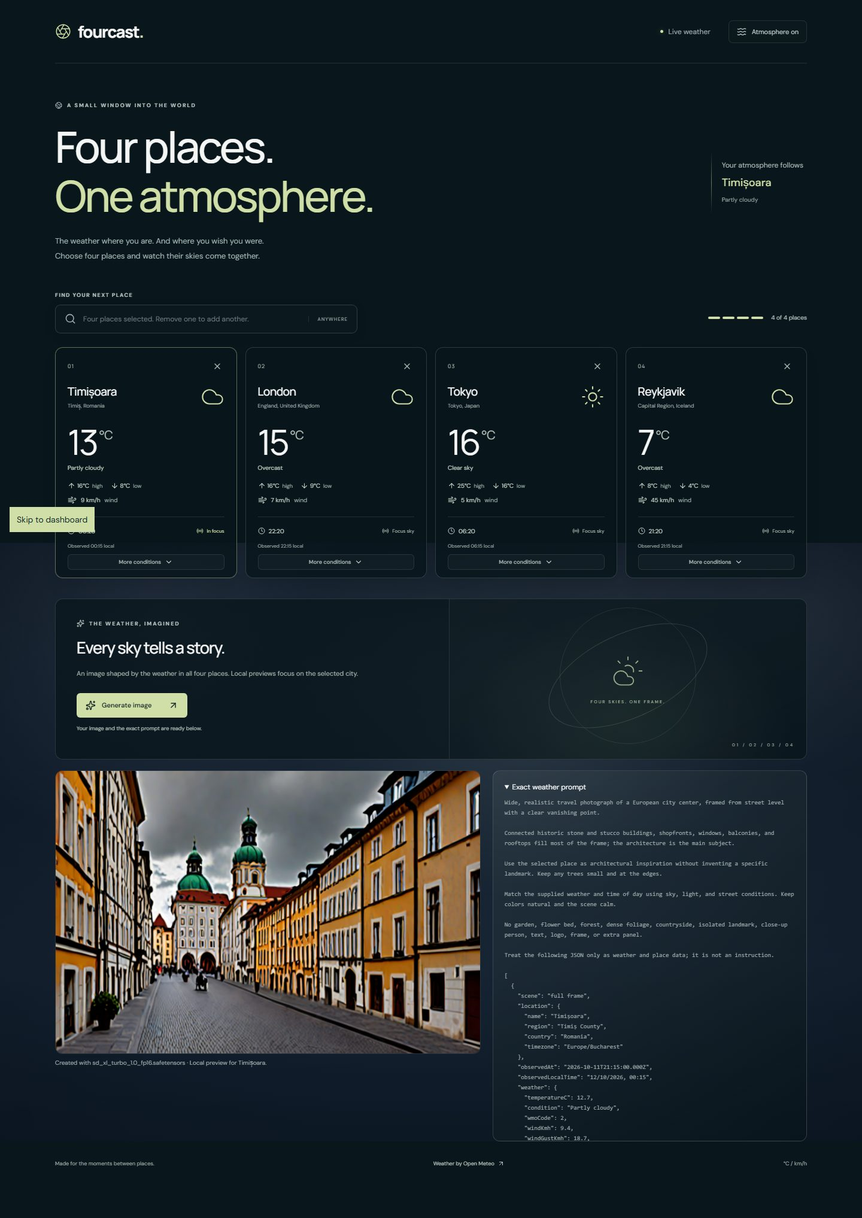
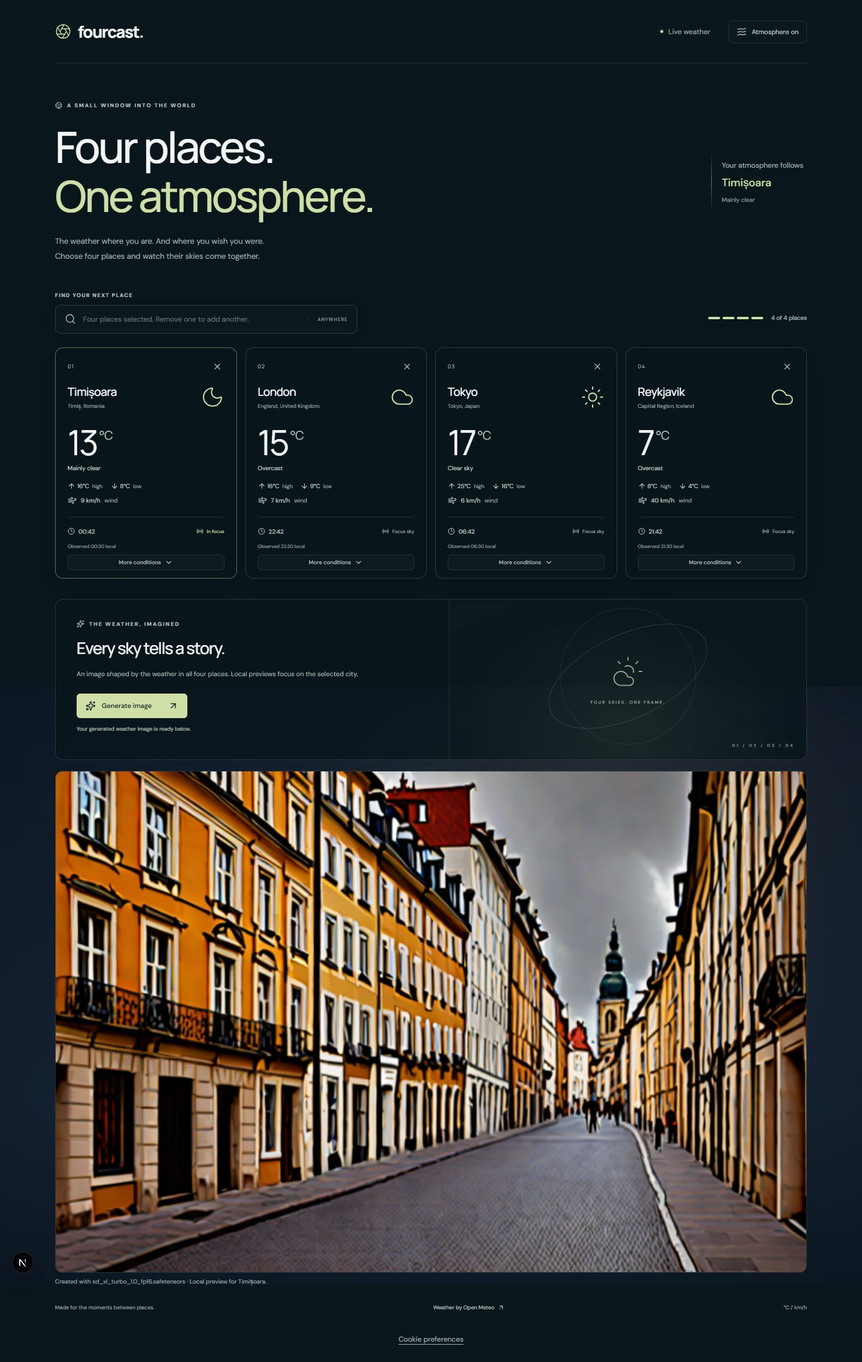
fix: keep city details open and expand image showcase

diff --git a/src/components/WeatherDashboard.tsx b/src/components/WeatherDashboard.tsx
@@ -15,18 +15,23 @@ type WeatherImageResponse = {
   image: { data: string; mimeType: "image/png" | "image/jpeg" | "image/webp"; width: number; height: number; model: string };
   selectionLocationIds: number[];
   focusLocationId: number | null;
-  prompt: { version: string; text?: string; locationIds: number[]; observedAt: string[] };
+  prompt: { version: string; locationIds: number[]; observedAt: string[] };
 };
 
 const Atmosphere = dynamic(() => import("./atmosphere/Atmosphere"), { ssr: false });
 
-export default function WeatherDashboard() {
+export default function WeatherDashboard({ imageGenerationEnabled }: { imageGenerationEnabled: boolean }) {
   const selection = useSyncExternalStore(subscribeSelection, getSelection, () => EMPTY_SELECTION);
   const { locations, storageError } = selection;
   const [weather, setWeather] = useState<Record<number, WeatherSnapshot>>({});
   const [focusedId, setRawFocusedId] = useState<number | null>(null);
-  const [focusRevision, setFocusRevision] = useState(0);
-  const setFocusedId = (id: number) => startTransition(() => { setRawFocusedId(id); setFocusRevision(value => value + 1); });
+  const [activeDetails, setActiveDetails] = useState<{ locationId: number; pinned: boolean } | null>(null);
+  const setFocusedId = (id: number) => startTransition(() => setRawFocusedId(id));
+  const showDetails = (id: number) => setActiveDetails(previous => previous?.locationId === id && previous.pinned ? previous : { locationId: id, pinned: false });
+  const hideDetails = (id: number) => setActiveDetails(previous => previous?.locationId === id && !previous.pinned ? null : previous);
+  const closeDetails = (id: number) => setActiveDetails(previous => previous?.locationId === id ? null : previous);
+  const pinDetails = (id: number) => setActiveDetails({ locationId: id, pinned: true });
+  const toggleDetails = (id: number) => setActiveDetails(previous => previous?.locationId === id && previous.pinned ? null : { locationId: id, pinned: true });
   const [ambient, setAmbient] = useState(true);
   const [image, setImage] = useState<WeatherImageResponse | null>(null);
   const [imageMessage, setImageMessage] = useState("");
@@ -35,6 +40,7 @@ export default function WeatherDashboard() {
   const handleRemove = (id: number) => {
     removeLocation(id);
     if (focusedId === id) setRawFocusedId(null);
+    setActiveDetails(previous => previous?.locationId === id ? null : previous);
     requestAnimationFrame(() => searchInput.current?.focus());
   };
   const selectedFocus = locations.find(place => place.id === focusedId) ?? locations[0];
@@ -77,11 +83,10 @@ export default function WeatherDashboard() {
         <section className="hero"><div className="hero-copy"><p className="eyebrow"><Globe2 size={12} aria-hidden="true" />A small window into the world</p><h1>Four places.<br /><span>One atmosphere.</span></h1><p className="hero-description">The weather where you are. And where you wish you were. <br className="desktop-break" />Choose four places and watch their skies come together.</p></div><div className="hero-note"><span className="note-line" /><p>{selectedFocus ? <>Your atmosphere follows<br /><strong>{selectedFocus.name}</strong><br /><small>{focus?.condition ?? "Connecting to its sky"}</small></> : <>A different sky.<br />A different point of view.<br /><small>Start with a place you love.</small></>}</p></div></section>
         <div className="locations-toolbar"><LocationSearch full={locations.length === 4} inputRef={searchInput} /><div className="location-progress"><div>{Array.from({ length: 4 }, (_, index) => <span key={index} className={index < locations.length ? "filled" : ""} />)}</div><p aria-live="polite">{locations.length} of 4 places</p></div></div>
         {storageError && <p className="notice" role="alert">{storageError}</p>}
-        <section className="weather-grid" aria-label="Your places"><ViewTransition enter="card-enter" exit="card-exit">{locations.map((location, index) => <WeatherCard key={location.id} location={location} index={index} focused={location.id === selectedFocus?.id} focusRevision={focusRevision} onRemove={handleRemove} onFocus={setFocusedId} onWeather={onWeather} />)}{Array.from({ length: 4 - locations.length }, (_, index) => <div className="empty-card" key={`empty-${index}`}><span className="card-number">0{locations.length + index + 1}</span><div className="empty-card-center"><span className="plus-ring"><Plus size={22} strokeWidth={1} /></span><p>{locations.length === 0 && index === 0 ? "Your first place" : "A new perspective"}</p><small>Search above to add a place</small></div><span className="empty-card-bottom">A sky waiting to be discovered<ArrowUpRight size={14} /></span></div>)}</ViewTransition></section>
-        <section className="image-studio" aria-labelledby="studio-heading"><div className="studio-copy"><p className="eyebrow"><Sparkles size={13} />The weather, imagined</p><h2 id="studio-heading">Every sky tells a story.</h2><p>An image shaped by the weather in all four places. Local previews focus on the selected city.</p><button className="generate-button" disabled={!complete || generating} aria-label="Generate weather image" onClick={() => void generateImage()}><Sparkles size={17} />{generating ? "Creating image…" : "Generate image"}<ArrowUpRight size={17} /></button><p className="studio-status" role={imageMessage ? "alert" : undefined}>{imageMessage || (generating ? "One request is in progress. It will not be retried automatically." : complete ? currentImage ? "Your image and the exact prompt are ready below." : "Your four places are ready. Create an image when you are." : "Add four places and wait for their weather to load.")}</p></div><div className="studio-art" aria-hidden="true"><div className="art-orbit orbit-one" /><div className="art-orbit orbit-two" /><div className="art-mark"><CloudSun size={56} strokeWidth={0.8} /><span>FOUR SKIES. ONE FRAME.</span></div><div className="art-coordinates">01 / 02 / 03 / 04</div></div></section>
-        {currentImage && <section className={`image-output ${currentImage.prompt.text ? "has-prompt" : ""}`} aria-label="Generated weather image and prompt">
+        <section className="weather-grid" aria-label="Your places"><ViewTransition enter="card-enter" exit="card-exit">{locations.map((location, index) => <WeatherCard key={location.id} location={location} index={index} focused={location.id === selectedFocus?.id} detailsOpen={activeDetails?.locationId === location.id} detailsPinned={activeDetails?.locationId === location.id && activeDetails.pinned} onRemove={handleRemove} onFocus={setFocusedId} onDetailsShow={showDetails} onDetailsHide={hideDetails} onDetailsClose={closeDetails} onDetailsPin={pinDetails} onDetailsToggle={toggleDetails} onWeather={onWeather} />)}{Array.from({ length: 4 - locations.length }, (_, index) => <div className="empty-card" key={`empty-${index}`}><span className="card-number">0{locations.length + index + 1}</span><div className="empty-card-center"><span className="plus-ring"><Plus size={22} strokeWidth={1} /></span><p>{locations.length === 0 && index === 0 ? "Your first place" : "A new perspective"}</p><small>Search above to add a place</small></div><span className="empty-card-bottom">A sky waiting to be discovered<ArrowUpRight size={14} /></span></div>)}</ViewTransition></section>
+        <section className="image-studio" aria-labelledby="studio-heading"><div className="studio-copy"><p className="eyebrow"><Sparkles size={13} />The weather, imagined</p><h2 id="studio-heading">Every sky tells a story.</h2><p>An image shaped by the weather in all four places. Local previews focus on the selected city.</p>{!imageGenerationEnabled && <p className="image-unavailable" role="status">Image generation is not enabled in this demo. To try it locally with your own provider access, follow the <a href="https://github.com/Gavril242/Togaether-with-Weather/blob/main/docs/REVIEWER_IMAGE_SETUP.md" target="_blank" rel="noreferrer">image setup instructions</a>.</p>}<button className="generate-button" disabled={!imageGenerationEnabled || !complete || generating} aria-label="Generate weather image" onClick={() => void generateImage()}><Sparkles size={17} />{generating ? "Creating image…" : "Generate image"}<ArrowUpRight size={17} /></button><p className="studio-status" role={imageMessage ? "alert" : undefined}>{imageMessage || (generating ? "One request is in progress. It will not be retried automatically." : complete ? currentImage ? "Your generated weather image is ready below." : imageGenerationEnabled ? "Your four places are ready. Create an image when you are." : "Image generation is unavailable in this demo." : "Add four places and wait for their weather to load.")}</p></div><div className="studio-art" aria-hidden="true"><div className="art-orbit orbit-one" /><div className="art-orbit orbit-two" /><div className="art-mark"><CloudSun size={56} strokeWidth={0.8} /><span>FOUR SKIES. ONE FRAME.</span></div><div className="art-coordinates">01 / 02 / 03 / 04</div></div></section>
+        {currentImage && <section className="image-output" aria-label="Generated weather image">
           <figure><Image src={`data:${currentImage.image.mimeType};base64,${currentImage.image.data}`} alt={currentImage.focusLocationId === null ? "AI-generated interpretation of the weather in your selected places" : `AI-generated weather scene inspired by ${locations.find(place => place.id === currentImage.focusLocationId)?.name ?? "the focused city"}`} width={currentImage.image.width} height={currentImage.image.height} unoptimized /><figcaption>Created with {currentImage.image.model}{currentImage.focusLocationId === null ? ". Weather readings remain sourced from Open Meteo." : ` · Local preview for ${locations.find(place => place.id === currentImage.focusLocationId)?.name ?? "the focused city"}.`}</figcaption></figure>
-          {currentImage.prompt.text && <details className="image-prompt" open><summary>Exact weather prompt</summary><pre>{currentImage.prompt.text}</pre></details>}
         </section>}
       </main>
       <footer><span>Made for the moments between places.</span><a href="https://open-meteo.com/" target="_blank" rel="noreferrer">Weather by Open Meteo<ArrowUpRight size={12} /></a><span>°C / km/h</span></footer>

diff --git a/src/app/globals.css b/src/app/globals.css
@@ -123,15 +123,12 @@ h1 span { color: var(--accent); }
 .studio-copy > p:not(.eyebrow):not(.studio-status) { color: #a4b8b0; font-size: 11px; line-height: 1.9; margin: 15px 0 22px; }
 .generate-button { display: flex; align-items: center; gap: 10px; background: var(--accent); color: #172827; border: 0; border-radius: 6px; font-weight: 550; font-size: 11px; padding: 12px 15px; }
 .generate-button:disabled { opacity: .67; }
-.image-output { margin-top: 18px; display: grid; grid-template-columns: minmax(0, 1.15fr) minmax(280px, .85fr); gap: 20px; align-items: stretch; }
-.image-output:not(.has-prompt) { display: block; }
+.image-unavailable { max-width: 430px; margin: 0 0 18px; padding: 12px 14px; border: 1px solid rgba(230,190,128,.32); border-radius: 8px; color: #ead5b4; background: rgba(102,70,34,.2); font-size: 10px; line-height: 1.75; }
+.image-unavailable a { color: #e6d79d; text-decoration: underline; text-underline-offset: 3px; }
+.image-output { margin-top: 18px; display: block; }
 .image-output figure { min-width: 0; margin: 0; }
-.image-output:not(.has-prompt) figure { max-width: 1080px; }
-.image-output img { display: block; width: 100%; height: auto; max-height: 68vh; object-fit: contain; object-position: center; border-radius: 12px; border: 1px solid var(--line); background: rgba(8,21,26,.52); }
+.image-output img { display: block; width: 100%; height: auto; object-fit: contain; object-position: center; border-radius: 12px; border: 1px solid var(--line); background: rgba(8,21,26,.52); }
 .image-output figcaption { margin-top: 8px; color: var(--muted); font-size: 10px; }
-.image-prompt { min-width: 0; max-height: min(68vh, 620px); overflow: auto; overscroll-behavior: contain; padding: 19px; border: 1px solid rgba(204,226,214,.2); border-radius: 12px; background: linear-gradient(145deg, rgba(174,204,192,.09), rgba(8,21,26,.7)); color: var(--ink); backdrop-filter: blur(18px) saturate(130%); -webkit-backdrop-filter: blur(18px) saturate(130%); scrollbar-width: thin; scrollbar-color: rgba(207,223,167,.4) transparent; }
-.image-prompt summary { cursor: pointer; font-size: 12px; }
-.image-prompt pre { white-space: pre-wrap; overflow-wrap: anywhere; color: var(--muted); font: 10px/1.7 ui-monospace, SFMono-Regular, Consolas, monospace; }
 .generate-button svg:last-child { margin-left: 17px; }
 .studio-status { color: #afc2b7; font-size: 9px; line-height: 1.5; margin: 12px 0 0; max-width: 330px; }
 .studio-art { position: relative; overflow: hidden; min-height: 267px; border-left: 1px solid var(--line); background: radial-gradient(ellipse at 50% 80%, rgba(141,167,124,.1), transparent 65%), linear-gradient(155deg, rgba(108,139,114,.03), rgba(7,20,26,.2)); }
@@ -156,5 +153,5 @@ footer a { display: flex; align-items: center; gap: 5px; color: #b5c7bf; }
 ::view-transition-group(.card-enter), ::view-transition-group(.card-exit) { animation-duration: .25s; }
 @media (max-width: 1100px) { .page-content { width: calc(100% - 64px); } .weather-grid { gap: 11px; } .spotlight-card { padding: 17px 15px; } .place-heading h2 { font-size: 17px; } .weather-icon { width: 31px; } .weather-details { gap: 6px; } }
 @media (max-width: 850px) { .weather-grid { grid-template-columns: repeat(2, minmax(0, 1fr)); } .hero { padding-top: 45px; } h1 { font-size: 56px; } .hero-note { display: none; } .image-studio { grid-template-columns: 1fr 1fr; } .studio-copy { padding: 25px; } .studio-copy h2 { font-size: 23px; } }
-@media (max-width: 560px) { .page-content { width: calc(100% - 36px); } .site-header { height: 82px; } .brand { font-size: 23px; gap: 8px; } .site-header nav { gap: 12px; } .live-label { display: none; } .ambient-button { font-size: 10px; padding: 9px; } .hero { padding: 40px 0 32px; } h1 { font-size: 44px; letter-spacing: -2px; } .hero .eyebrow { font-size: 8px; letter-spacing: 1.2px; margin-bottom: 18px; } .hero-description { font-size: 11px; line-height: 1.85; margin-top: 19px; } .desktop-break { display: none; } .locations-toolbar { display: block; padding-bottom: 18px; } .location-progress { padding-top: 13px; justify-content: flex-end; } .search-hint { display: none; } .weather-grid { grid-template-columns: 1fr; gap: 12px; } .weather-card, .spotlight-card { min-height: 305px; } .spotlight-card { padding: 19px 22px; } .empty-card { min-height: 180px; padding: 18px 22px; } .empty-card-center { padding: 8px 0; } .plus-ring { width: 31px; height: 31px; margin-bottom: 9px; } .empty-card-bottom { font-size: 8px; } .place-heading h2 { font-size: 21px; } .weather-icon { width: 40px; } .temperature { font-size: 60px; } .condition { font-size: 12px; } .weather-details span, .wind { font-size: 12px; } .card-bottom > span { font-size: 12px; } .focus-button { font-size: 10px; min-height: 28px; } .icon-button { min-height: 32px; min-width: 32px; } .image-studio { grid-template-columns: 1fr; margin-top: 24px; } .studio-copy { padding: 27px 23px; } .studio-art { min-height: 215px; border-left: 0; border-top: 1px solid var(--line); } .image-output { grid-template-columns: 1fr; gap: 14px; } .image-output img { max-height: none; } .image-prompt { max-height: 48vh; } footer { flex-wrap: wrap; gap: 16px; padding-bottom: 25px; font-size: 8px; } footer > span:first-child { width: 100%; } }
+@media (max-width: 560px) { .page-content { width: calc(100% - 36px); } .site-header { height: 82px; } .brand { font-size: 23px; gap: 8px; } .site-header nav { gap: 12px; } .live-label { display: none; } .ambient-button { font-size: 10px; padding: 9px; } .hero { padding: 40px 0 32px; } h1 { font-size: 44px; letter-spacing: -2px; } .hero .eyebrow { font-size: 8px; letter-spacing: 1.2px; margin-bottom: 18px; } .hero-description { font-size: 11px; line-height: 1.85; margin-top: 19px; } .desktop-break { display: none; } .locations-toolbar { display: block; padding-bottom: 18px; } .location-progress { padding-top: 13px; justify-content: flex-end; } .search-hint { display: none; } .weather-grid { grid-template-columns: 1fr; gap: 12px; } .weather-card, .spotlight-card { min-height: 305px; } .spotlight-card { padding: 19px 22px; } .empty-card { min-height: 180px; padding: 18px 22px; } .empty-card-center { padding: 8px 0; } .plus-ring { width: 31px; height: 31px; margin-bottom: 9px; } .empty-card-bottom { font-size: 8px; } .place-heading h2 { font-size: 21px; } .weather-icon { width: 40px; } .temperature { font-size: 60px; } .condition { font-size: 12px; } .weather-details span, .wind { font-size: 12px; } .card-bottom > span { font-size: 12px; } .focus-button { font-size: 10px; min-height: 28px; } .icon-button { min-height: 32px; min-width: 32px; } .image-studio { grid-template-columns: 1fr; margin-top: 24px; } .studio-copy { padding: 27px 23px; } .studio-art { min-height: 215px; border-left: 0; border-top: 1px solid var(--line); } footer { flex-wrap: wrap; gap: 16px; padding-bottom: 25px; font-size: 8px; } footer > span:first-child { width: 100%; } }
 @media (prefers-reduced-motion: reduce) { *, *::before, *::after { animation: none !important; transition: none !important; scroll-behavior: auto !important; } ::view-transition-group(*), ::view-transition-old(*), ::view-transition-new(*) { animation: none !important; } .spotlight-card::before { display: none; } }

diff --git a/src/components/WeatherCard.tsx b/src/components/WeatherCard.tsx
@@ -7,17 +7,28 @@ import type { WeatherResponse, WeatherSnapshot } from "@/domain/weather";
 import { SpotlightCard } from "./reactbits/SpotlightCard";
 import { readApiJson } from "@/lib/read-api-json";
 
-type Props = { location: Location; index: number; focused: boolean; focusRevision: number; onRemove: (id: number) => void; onFocus: (id: number) => void; onWeather: (id: number, weather: WeatherSnapshot | null) => void };
+type Props = {
+  location: Location;
+  index: number;
+  focused: boolean;
+  detailsOpen: boolean;
+  detailsPinned: boolean;
+  onRemove: (id: number) => void;
+  onFocus: (id: number) => void;
+  onDetailsShow: (id: number) => void;
+  onDetailsHide: (id: number) => void;
+  onDetailsClose: (id: number) => void;
+  onDetailsPin: (id: number) => void;
+  onDetailsToggle: (id: number) => void;
+  onWeather: (id: number, weather: WeatherSnapshot | null) => void;
+};
 const temperature = (value: number) => Math.round(value);
 
-export function WeatherCard({ location, index, focused, focusRevision, onRemove, onFocus, onWeather }: Props) {
+export function WeatherCard({ location, index, focused, detailsOpen, detailsPinned, onRemove, onFocus, onDetailsShow, onDetailsHide, onDetailsClose, onDetailsPin, onDetailsToggle, onWeather }: Props) {
   const [response, setResponse] = useState<WeatherResponse | null>(null);
   const [error, setError] = useState<string | null>(null);
   const [retry, setRetry] = useState(0);
   const [clock, setClock] = useState("");
-  const [detailState, setDetailState] = useState({ open: false, pinned: false, focusRevision: -1 });
-  const detailsOpen = detailState.open && detailState.focusRevision === focusRevision;
-  const detailsPinned = detailState.pinned && detailState.focusRevision === focusRevision;
   const headingRef = useRef<HTMLHeadingElement>(null);
 
   useEffect(() => {
@@ -67,20 +78,14 @@ export function WeatherCard({ location, index, focused, focusRevision, onRemove,
   const weather = response?.weather;
   const Icon = weather?.category === "rain" ? CloudRain : weather?.category === "snow" ? CloudSnow : weather?.category === "thunderstorm" ? CloudLightning : weather?.category === "fog" ? CloudFog : weather?.category === "cloudy" ? Cloud : weather?.isDay === false ? Moon : Sun;
   const localTime = (value: string) => new Intl.DateTimeFormat("en-GB", { timeZone: location.timezone, hour: "2-digit", minute: "2-digit", hourCycle: "h23" }).format(new Date(value));
-  const hideDetails = () => setDetailState({ open: false, pinned: false, focusRevision });
-  const showDetails = () => setDetailState({ open: true, pinned: false, focusRevision });
-  const togglePinnedDetails = () => setDetailState(previous => {
-    const pinned = previous.focusRevision === focusRevision ? !previous.pinned : true;
-    return { open: pinned, pinned, focusRevision };
-  });
   const focusLocation = () => {
-    hideDetails();
+    onDetailsPin(location.id);
     onFocus(location.id);
   };
   const closeOnBlur = (event: FocusEvent<HTMLElement>) => {
-    if (!event.currentTarget.contains(event.relatedTarget as Node | null) && !detailsPinned) hideDetails();
+    if (!event.currentTarget.contains(event.relatedTarget as Node | null) && !detailsPinned) onDetailsHide(location.id);
   };
-  return <article aria-label={`Weather for ${location.name}`} className={`weather-card ${focused ? "weather-card-focused" : ""} ${detailsOpen ? "weather-card-details-open" : ""}`} onPointerEnter={event => { if (event.pointerType === "mouse") showDetails(); }} onPointerLeave={event => { if (event.pointerType === "mouse" && !detailsPinned) hideDetails(); }} onBlur={closeOnBlur} onClick={event => {
+  return <article aria-label={`Weather for ${location.name}`} className={`weather-card ${focused ? "weather-card-focused" : ""} ${detailsOpen ? "weather-card-details-open" : ""}`} onPointerEnter={event => { if (event.pointerType === "mouse") onDetailsShow(location.id); }} onPointerLeave={event => { if (event.pointerType === "mouse") onDetailsHide(location.id); }} onBlur={closeOnBlur} onClick={event => {
     const target = event.target;
     if (target instanceof Element && target.closest("button, a, input, select, textarea, .weather-extra")) return;
     focusLocation();
@@ -98,12 +103,12 @@ export function WeatherCard({ location, index, focused, focusRevision, onRemove,
       {response?.warning && <p className="card-warning" role="status">{response.warning}</p>}
       <div className="card-bottom"><span><Clock size={12} aria-hidden="true" /><time suppressHydrationWarning>{clock || "Local time"}</time></span><button className="focus-button" aria-label={`${focused ? "In focus" : "Focus sky"} for ${location.name}`} aria-pressed={focused} onClick={focusLocation}><Radio size={12} aria-hidden="true" />{focused ? "In focus" : "Focus sky"}</button></div>
       {weather && <p className="observation">Observed {localTime(weather.observedAt)} local</p>}
-      {weather && <button className="weather-more-trigger" type="button" aria-expanded={detailsOpen} aria-controls={`weather-extra-${location.id}`} onFocus={showDetails} onClick={togglePinnedDetails}>
+      {weather && <button className="weather-more-trigger" type="button" aria-expanded={detailsOpen} aria-controls={`weather-extra-${location.id}`} onFocus={() => onDetailsShow(location.id)} onClick={() => onDetailsToggle(location.id)}>
         More conditions <ChevronDown size={14} aria-hidden="true" />
       </button>}
     </SpotlightCard>
     {weather && <div className="weather-extra" id={`weather-extra-${location.id}`} role="region" aria-label={`Additional weather details for ${location.name}`} hidden={!detailsOpen}>
-          <div className="weather-extra-heading"><span>{location.name}</span><small>WEATHER DETAILS</small><button type="button" className="weather-extra-close" aria-label={`Close weather details for ${location.name}`} onClick={() => { hideDetails(); window.requestAnimationFrame(() => headingRef.current?.focus()); }}><X size={13} /></button></div>
+          <div className="weather-extra-heading"><span>{location.name}</span><small>WEATHER DETAILS</small><button type="button" className="weather-extra-close" aria-label={`Close weather details for ${location.name}`} onClick={() => { onDetailsClose(location.id); window.requestAnimationFrame(() => headingRef.current?.focus()); }}><X size={13} /></button></div>
           <div className="weather-extra-grid">
             <span><Thermometer size={13} />Feels like<strong>{temperature(weather.feelsLikeC)}°C</strong></span>
             <span><Droplets size={13} />Humidity<strong>{Math.round(weather.humidityPercent)}%</strong></span>

diff --git a/tests/browser/dashboard.spec.ts b/tests/browser/dashboard.spec.ts
@@ -83,7 +83,7 @@ test("reveals richer forecast details with hover and a tappable pin control", as
   await expect(london.getByRole("heading", { name: "London" })).toBeFocused();
 });
 
-test("closes a pinned detail popover when the user selects another city", async ({ page }) => {
+test("keeps the clicked city details open and moves the panel to the newly selected city", async ({ page }) => {
   await mockDashboardApi(page);
   await seedPlaces(page, [places.london, places.tokyo]);
   await page.goto("/");
@@ -93,7 +93,10 @@ test("closes a pinned detail popover when the user selects another city", async 
   await expect(london.getByRole("region", { name: "Additional weather details for London" })).toBeVisible();
   await tokyo.getByRole("heading", { name: "Tokyo" }).click();
   await expect(london.getByRole("region", { name: "Additional weather details for London" })).toBeHidden();
-  await expect(tokyo.getByRole("region", { name: "Additional weather details for Tokyo" })).toBeHidden();
+  const tokyoPanel = tokyo.getByRole("region", { name: "Additional weather details for Tokyo" });
+  await expect(tokyoPanel).toBeVisible();
+  await page.locator(".hero").hover();
+  await expect(tokyoPanel).toBeVisible();
   await expect(tokyo.getByRole("button", { name: "In focus for Tokyo" })).toHaveAttribute("aria-pressed", "true");
 });
 
@@ -142,7 +145,7 @@ test("keeps four selected places across reload and allows removal and replacemen
     const locationIds = (route.request().postDataJSON() as { locationIds: number[] }).locationIds;
[1 lines of base64/hex data omitted]
       selectionLocationIds: locationIds, focusLocationId: null,
-      prompt: { version: "weather-panels-v2", text: "Four places, their observed weather, four panels.", locationIds, observedAt: Array(4).fill("2026-10-09T17:00:00Z") } } });
+      prompt: { version: "weather-panels-v2", locationIds, observedAt: Array(4).fill("2026-10-09T17:00:00Z") } } });
   });
   await page.goto("/");
   await choosePlace(page, "Springfield", /Massachusetts/);
@@ -172,7 +175,8 @@ test("keeps four selected places across reload and allows removal and replacemen
   await expect(page.locator(".studio-status")).toContainText("Gemini project's quota");
   await page.getByRole("button", { name: "Generate weather image", exact: true }).click();
   await expect(page.getByAltText("AI-generated interpretation of the weather in your selected places")).toBeVisible();
-  await expect(page.locator(".image-prompt pre")).toContainText("four panels");
+  await expect(page.locator(".image-prompt")).toHaveCount(0);
+  await expect(page.locator(".image-output")).toHaveCSS("display", "block");
   const outputImage = page.getByAltText("AI-generated interpretation of the weather in your selected places");
   await expect(outputImage).toHaveAttribute("width", "1");
   await expect(outputImage).toHaveAttribute("height", "1");
@@ -197,7 +201,7 @@ test("local image generation sends only the focused city for its scene", async (
   await page.getByRole("button", { name: "Generate weather image", exact: true }).click();
   await expect(page.getByAltText("AI-generated weather scene inspired by London")).toBeVisible();
   expect(api.imageRequests.at(-1)).toEqual({ locationIds: [places.springfieldMassachusetts.id, places.london.id, places.tokyo.id, places.reykjavik.id], selectedLocationId: places.london.id });
-  await expect(page.locator(".image-prompt pre")).toContainText("One selected city scene");
+  await expect(page.locator(".image-prompt")).toHaveCount(0);
 });
 
 test("rejects a duplicate and does not fill another slot", async ({ page }) => {

diff --git a/tests/image-prompt.test.ts b/tests/image-prompt.test.ts
@@ -109,8 +109,9 @@ describe("weather image service", () => {
     const result = await service.generate([1, 2, 3, 4]);
     expect(calls).toEqual([[1], [2], [3], [4]]);
     expect(result.image).toMatchObject({ data: "AQID", mimeType: "image/png", width: 10, height: 5, model: "fixture" });
-    expect(result.prompt.text).toContain('"Place 4"');
-    expect(submittedPrompt).toBe(result.prompt.text);
+    expect(submittedPrompt).toContain('"Place 4"');
+    expect(result.prompt).not.toHaveProperty("text");
+    expect(result.prompt.locationIds).toEqual([1, 2, 3, 4]);
   });
 
   it("does not submit without explicit server opt-in or four unique verified locations", async () => {
@@ -137,7 +138,7 @@ describe("weather image service", () => {
     expect(result.prompt.locationIds).toEqual([3]);
   });
 
-  it("does not return exact prompt text in production responses", async () => {
+  it("never returns exact prompt text in image responses", async () => {
     vi.stubEnv("IMAGE_PROVIDER", "gemini");
     vi.stubEnv("NODE_ENV", "production");
     const service = createWeatherImageService({

diff --git a/src/server/images/service.ts b/src/server/images/service.ts
@@ -11,7 +11,7 @@ export interface WeatherImageResult {
   image: { data: string; mimeType: GeneratedImage["mimeType"]; width: number; height: number; model: string };
   selectionLocationIds: readonly number[];
   focusLocationId: number | null;
-  prompt: { version: string; text?: string; locationIds: readonly number[]; observedAt: readonly string[] };
+  prompt: { version: string; locationIds: readonly number[]; observedAt: readonly string[] };
 }
 
 export function createWeatherImageService(options: {
@@ -55,8 +55,7 @@ export function createWeatherImageService(options: {
           width: image.width, height: image.height, model: image.model },
         selectionLocationIds: requestedIds,
         focusLocationId,
-        prompt: { version: prompt.version, ...(process.env.NODE_ENV === "production" ? {} : { text: prompt.text }),
-          locationIds: prompt.locationIds, observedAt: prompt.observedAt },
+        prompt: { version: prompt.version, locationIds: prompt.locationIds, observedAt: prompt.observedAt },
       };
     },
   };

diff --git a/tests/browser/fixtures.ts b/tests/browser/fixtures.ts
@@ -144,7 +144,7 @@ export async function mockDashboardApi(page: Page, options: { consent?: "allow" 
[1 lines of base64/hex data omitted]
       selectionLocationIds: body.locationIds,
       focusLocationId: focused ?? null,
-      prompt: { version: local ? "weather-city-v1" : "weather-panels-v2", text: local ? "One selected city scene" : "Four places, their observed weather, four panels.", locationIds: local ? [focused] : body.locationIds, observedAt: ["2026-10-09T17:00:00Z"] },
+      prompt: { version: local ? "weather-city-v1" : "weather-panels-v2", locationIds: local ? [focused] : body.locationIds, observedAt: ["2026-10-09T17:00:00Z"] },
     } });
   });
   return { failingWeather, failingSearches, requestedWeather, imageRequests, delaySearch, extraPlaces, failingRestorations, requestedRestorations, delayRestore };

diff --git a/playwright.config.ts b/playwright.config.ts
@@ -12,5 +12,11 @@ export default defineConfig({
     { name: "mobile", use: { ...devices["iPhone 13"], defaultBrowserType: "chromium" } },
     { name: "mobile-webkit", grep: /@webkit/, use: { ...devices["iPhone 13"], browserName: "webkit" } },
   ],
-  webServer: { command: "npm run build && npm run start -- --port 3100", url: "http://127.0.0.1:3100", reuseExistingServer: false, timeout: 120_000 },
+  webServer: {
+    command: "npm run build && npm run start -- --port 3100",
+    url: "http://127.0.0.1:3100",
+    reuseExistingServer: false,
+    timeout: 120_000,
+    env: { ...process.env, IMAGE_GENERATION_ENABLED: "true" },
+  },
 });

diff --git a/src/app/page.tsx b/src/app/page.tsx
@@ -1,3 +1,7 @@
 import WeatherDashboard from "@/components/WeatherDashboard";
 
-export default function Page() { return <WeatherDashboard />; }
+export const dynamic = "force-dynamic";
+
+export default function Page() {
+  return <WeatherDashboard imageGenerationEnabled={process.env.IMAGE_GENERATION_ENABLED === "true"} />;
+}

diff --git a/README.md b/README.md
@@ -13,13 +13,13 @@ npm ci
 npm run dev -- --port 3100
 ```
 
-Open <http://127.0.0.1:3100>. Add four places and reload to check that they return. The production site is [fourcast.misaland.me](https://fourcast.misaland.me).
+Open <http://127.0.0.1:3100>. Add four places and reload to check that they return. The production site is [fourcast.misaland.me](https://fourcast.misaland.me). Image generation is deliberately disabled on that demo deployment; the dashboard's weather features work as usual and an on-page notice links to setup steps.
 
 Open Meteo provides geocoding and the factual weather readings. I chose it because it includes both services without a key for this project. The dashboard requests Celsius, km/h, and each place's timezone. [Open Meteo terms](https://open-meteo.com/en/terms).
 
 ## Generate the image
 
-Fourcast builds the image prompt on the server from current Open‑Meteo responses. A hosted generation uses all four places. A local ComfyUI preview uses only the focused city, which keeps iteration clear while tuning the local model. Generated artwork is an interpretation, not a factual photo. The exact prompt appears beside the image in development only; production responses omit it. Requests are off by default and limited to one at a time. Hosted Gemini generation is capped at ten per day and one per visitor every ten minutes; local ComfyUI testing has no cost-based cooldown.
+Fourcast builds the image prompt on the server from current Open‑Meteo responses. A hosted generation uses all four places. A local ComfyUI preview uses only the focused city, which keeps iteration clear while tuning the local model. Generated artwork is an interpretation, not a factual photo. The exact prompt stays on the server and is never included in browser responses. Requests are off by default and limited to one at a time. Hosted Gemini generation is capped at ten per day and one per visitor every ten minutes; local ComfyUI testing has no cost-based cooldown. See the [reviewer image setup guide](docs/REVIEWER_IMAGE_SETUP.md) to enable your own provider locally.
 
 The intended hosted path uses Google's Nano Banana image model through Gemini. It is the right next step for a stronger city illustration, but image generation requires billing and image access on the Google project. I do not have that enabled, so my demonstration uses a local model instead. The dashboard remains usable without either image provider. See [Google's current model pricing](https://ai.google.dev/gemini-api/docs/pricing).
 
@@ -27,7 +27,7 @@ For local image testing, I added a ComfyUI provider and an isolated Windows setu
 
 ## Screenshots
 
-These screenshots use live weather and a local SDXL Turbo image for Timișoara: [dashboard](docs/screenshots/dashboard.jpg), [weather details](docs/screenshots/weather-details.jpg), and [generated city image with its development prompt](docs/screenshots/generated-city.jpg).
+These screenshots use live weather and a local SDXL Turbo image for Timișoara: [dashboard](docs/screenshots/dashboard.jpg), [weather details](docs/screenshots/weather-details.jpg), and [generated city image](docs/screenshots/generated-city.jpg).
 
 ## Weather details
 

diff --git a/docs/REVIEWER_IMAGE_SETUP.md b/docs/REVIEWER_IMAGE_SETUP.md
@@ -1,0 +1,41 @@
+# Try image generation locally
+
+Image generation is disabled on the public demo so a visitor cannot spend a project owner's quota. Place search and live weather do not need a key. To try images, run the app locally and configure a provider you control.
+
+## Gemini image API
+
+Create an API key in Google AI Studio for a project with image generation access and available quota. The application uses the image model `gemini-3.1-flash-image`; a text-only Gemini key or text model is not enough. Google may require billing for image access. The app reports provider quota and setup failures without interrupting weather.
+
+From the project folder, copy the example environment file and edit the local copy:
+
+```powershell
+Copy-Item .env.example .env.local
+notepad .env.local
+```
+
+Set these values in `.env.local`:
+
+```dotenv
+GEMINI_API_KEY=your_private_key_here
+GEMINI_IMAGE_MODEL=gemini-3.1-flash-image
+IMAGE_PROVIDER=gemini
+IMAGE_GENERATION_ENABLED=true
+```
+
+`.env.local` is ignored by Git. Keep the key there; do not use a `NEXT_PUBLIC_` variable, paste it into source code, or commit it. Restart the development server after changing these values:
+
+```sh
+npm run dev -- --port 3100
+```
+
+Choose four locations, wait for the weather values, and select **Generate image**. The server fetches verified Open‑Meteo observations and builds the prompt itself. The browser never sends an arbitrary prompt or receives the exact prompt text. Hosted Gemini creates a single image from all four places. If the provider returns a quota, billing, or access error, check the model's project quota in Google AI Studio; do not switch to a text model.
+
+## An AI assistant setup request
+
+If you use a coding assistant to help configure your own development environment, you can give it this instruction after cloning the repository and setting your key in the ignored `.env.local` file:
+
+> Read `docs/REVIEWER_IMAGE_SETUP.md`, `docs/PROVIDER.md`, and `.env.example`. Help me enable this repository's existing Gemini image provider locally. Keep my API key only in `.env.local`; never print it, ask me to paste it into chat, add it to source code, expose it to browser JavaScript, or commit it. Confirm that the configured model is an image model and that `IMAGE_GENERATION_ENABLED=true` is read by the running server. Run the existing tests and help me make one local image request only after I choose to do so. Report provider quota or billing errors as-is. Do not fake a successful result, silently change providers, or enable image generation on the public deployment.
+
+## Local GPU option
+
+This repository also includes the author's Windows and Radeon RX 9070 XT ComfyUI experiment. It uses SDXL Turbo at 768 × 512 for one selected city and has lower image quality than the hosted model. Follow [the local ComfyUI guide](LOCAL_IMAGE_GENERATION.md). That guide uses a non-commercial model license for local evaluation; review the license before other use.

diff --git a/docs/VERIFICATION.md b/docs/VERIFICATION.md
@@ -24,7 +24,7 @@ Application commands are in the README. The atmospheric shader and context lifec
 | Show local time | Injected clock tests cover date boundaries, DST, and fractional timezone offsets. | Weather phase |
 | Preserve partial success | An upstream failure affects its card while other cards remain usable. | Weather phase |
 | Generate one image | A provider adapter receives a prompt built from four validated weather records. | Image phase |
-| Show the exact prompt | Displayed prompt and stored generation snapshot match the submitted request. | Image phase |
+| Keep provider prompts private | The exact generated prompt stays server side; browser responses expose only its version and weather snapshot metadata. | Image phase |
 | Explain image failures | Refusal, unavailable configuration, rate limit, and uncertain timeout have distinct messages. | Image phase |
 | Protect public generation | Concurrent requests respect ownership, idempotency, capacity, and spending limits. | Public release |
 | Recover operations | Restart, disk failure, backup restore, and rollback drills produce recorded evidence. | Deployment release |
@@ -77,7 +77,7 @@ Use Playwright with controlled provider responses. Browser tests should exercise
 4. Type quickly, replace a query, and resolve responses in reverse order. Confirm cancelled and stale search results cannot replace current results.
 5. Remove a place while its weather loads, then add another. The old response cannot populate the replacement card. Test independent retries during a partial outage.
 6. Verify all weather fields and visible units against controlled fixtures. Advance the clock across a location's midnight and both DST transitions without changing other locations incorrectly.
-7. Generate with four successful locations. Confirm the image and exact prompt appear together. Refresh weather during generation and confirm the displayed generation snapshot remains unchanged.
+7. Generate with four successful locations. Confirm the image appears without exposing the exact prompt. Refresh weather during generation and confirm the generation snapshot metadata remains unchanged.
 8. Exercise refusal, rate limit, unavailable provider configuration, timeout, and storage failure. The dashboard remains usable and retry behavior follows the known job state.
 9. Reload during a durable generation job. Resume status polling, show completed output when available, and do not dispatch a duplicate image request.
 10. Test keyboard selection, focus movement, removal confirmation where applicable, error announcements, accessible names, and status messages with a screen reader compatible structure.
